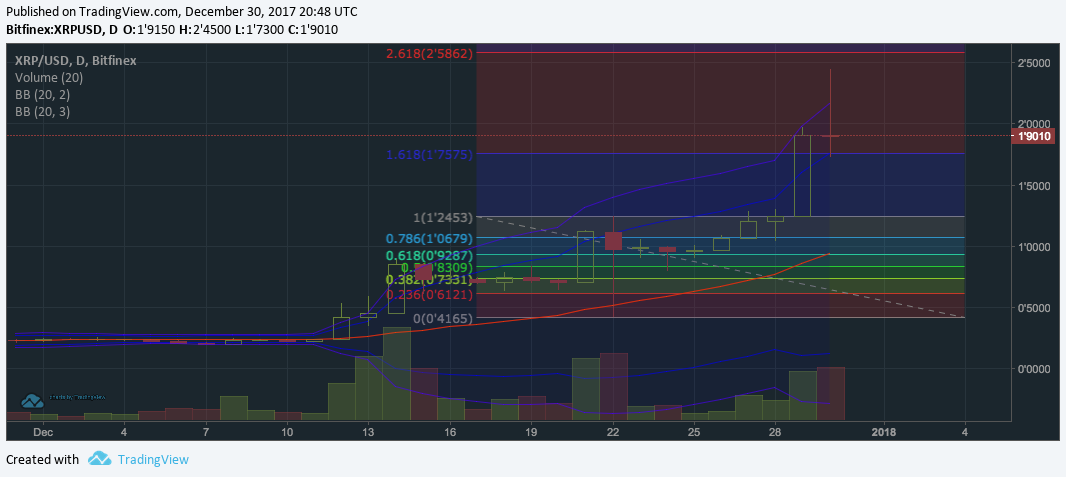
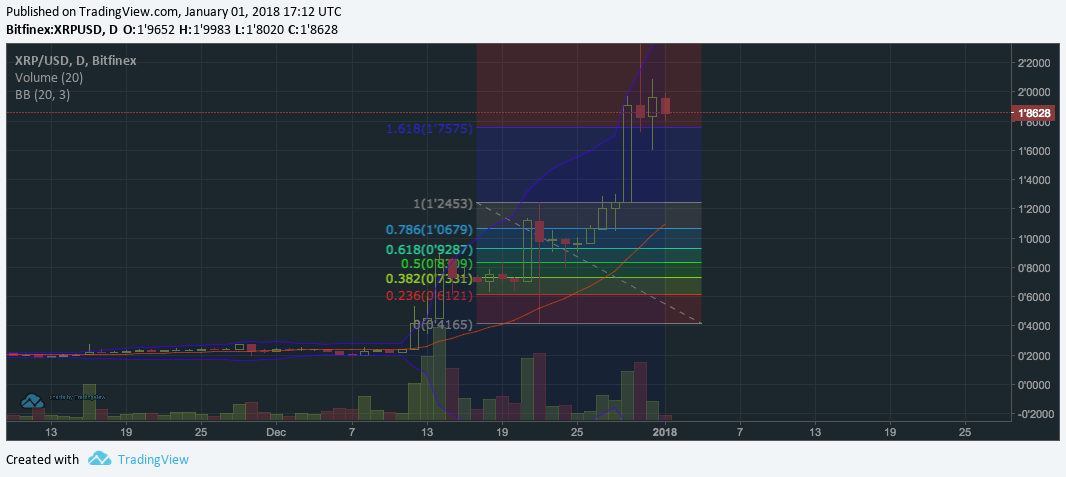
fibs

diff --git a/_includes/thismonth-airdrops.html b/_includes/thismonth-airdrops.html
@@ -25,6 +25,14 @@
   </tr>
 
   <tr>
+    <td>SEM</td>
+    <td>Before 25 Feb 2018, claims processed every Sun</td>
+    <td>Airdrop against BTC balances at block height 480000. 1 BTC = 20 SEM. You need to sign your Semux address with your Bitcoin wallet and submit the signature to https://goo.gl/forms/tXh3Gd8Z6LddBw6H2. You also need a SEM address, wallets are <a rel="nofollow" href="https://github.com/semuxproject/semux/releases">on Github</a>.</td>
+    <td><a rel="nofollow" target="_blank" href="https://www.semux.org/">semux.org</a></td>
+    <td><a rel="nofollow" target="_blank" href="https://bitcointalk.org/index.php?topic=2159012.0?utm_source=altcointradingnet">Bitcointalk</a></td>
+  </tr>
+
+  <tr>
     <td>Bitcore</td>
     <td>Nov 2 but claiming is still open</td>
     <td>It involves sharing your private key so do it securely.</td>

diff --git a/_fibs/daily.md b/_fibs/daily.md
@@ -1,7 +1,7 @@
 ---
 published: true
 date: 2017-12-27 10:36:00 +0100
-update: 2017-12-31 07:02:00 +0100
+update: 2018-01-02 03:02:00 +0100
 
 layout: fibs
 title: "Fib Levels for Crypto Markets"
@@ -17,16 +17,13 @@ name: "daily/"
 image: ["/strat/finexfibs.png"]
 
 dollars:
-- { market: "XRPUSD", chart: "/fibs/xrpusd.png", comment: "Beautiful top wick below 2.618, currently about 20% down over the last 24 hours. On shorter timeframes currently bouncing off 1.618 but on small volume." }
-- { market: "ETHUSD", chart: "/fibs/ethusd.png", comment: "The positive trend line defined by moving average (bband center) was broken on 1D - daily of 30 Dec closed below. ETH is still holding the level for now but there is some downward pressure (sell volumes)." }
-- { market: "IOTUSD", chart: "/fibs/iotusd.png", comment: "Iota is keeping in the slight downtrend (consolidation), not much going on. The ratio (IOTBTC) is up thanks to bitcoin's action." }
-- { market: "BTCUSD", chart: "/fibs/btcusd.png", comment: "Bitcoin sold off in a big way, now sitting on its last support area and looking very heavy." }
+
+- { market: "ETHUSD", chart: "/fibs/ethusd.png", comment: "The break of the MA (bbands center) was quickly overturned with a convincing double bottom bounce, currently ETHUSD has already broken up through the fib at $783." }
+- { market: "XRPUSD", chart: "/fibs/xrpusd.png", comment: "XRP is actually consolidating and not dropping like crazy: that's a good thing. Not a buy though, other than for a scalp." }
+- { market: "BTCUSD", chart: "/fibs/btcusd.png", comment: "Bitcoin fans are surely happy the coin is at 13.5 at the moment but it is looking as heavy as yesterday." }
 ratios:
-- { market: "ETHBTC", chart: "/fibs/ethbtc.png", comment: "The ETH ratio is climbing but still not breaking out convincingly." }
-
-
-#- { market: "IOTUSD", chart: "/fibs/iotusd.png", comment: "dolor" }
-
+- { market: "ETHBTC", chart: "/fibs/ethbtc.png", comment: "Currently attacking the marked peak. Let's see. If broken, next stop is at 0.07 BTC." }
+- { market: "EOSBTC", chart: "/fibs/eosbtc.png", comment: "EOS is one of the finex coins that is surging at the moment - against USD and BTC but not against ETH - and also one that is trusted for being potentially more than a fad. Pricewise I'd just like to point out the resistance in the BTC ratio where it's at right now is significant. Not a place to FOMO (even though someone has to if it's to blast through)." }
 ---
 
 
@@ -34,6 +31,6 @@ This is a new section on AltcoinTrading that will have only USD and BTC charts f
 
 > Relevant news for today
 
-* It's [from zerohedge so grain of salt and all that](https://www.zerohedge.com/news/2017-12-29/stunning-look-inside-world-south-koreas-bitcoin-zombies), but it's an interesting article about how the crypto madness looks in South Korea: Everybody wants to be a crypto investors, young folks are making tons of money, students have "clubs" where they trade together (and make decisions together as opposed to the western world that engages in fights between subreddits). It's not difficult to see why these new traders lead the market and how it looks like.
-* [You can now vote to have RaiBlocks listed on Binance next month](https://www.reddit.com/r/RaiBlocks/comments/7n4k0c/xrb_officially_on_the_ballet_for_the_binance_coin/). If you don't have an account on Binance yet go ahead and use our [shill link](https://www.binance.com/?ref=15980293).
-* Happy new year.
+* There's a [new subreddit dedicated to Bitcoin forks](https://www.reddit.com/r/BitcoinScamCoins/)
+* It's still [not too late to activate your BTC stash to claim UB (United Bitcoin)](https://forkit.info/united-bitcoin/) - the block height deadline was changed
+* Verge (XVG), a privacy coin that has been shilled by McAffee and mooning lately, allegedly [leaked IP addresses of transactions](http://csnews.io/2018/01/01/verge-xvg-privacy-coin-just-thousands-users-ip-addresses-leaked/). Also McAffee [allegedly blackmailed Verge](https://www.finder.com.au/verge-mcafee-blackmail). Isn't drama supposed to be reserved for bitcoin?

diff --git a/_posts/2017-12-30-new-exchanges.md b/_posts/2017-12-30-new-exchanges.md
@@ -21,10 +21,10 @@ layout: forestry
 german: false
 tickers: false
 
-title: "New kids on the block: Smaller cryptocurrency exchanges good for trading"
+title: "Update for 2018: Smaller cryptocurrency exchanges good for trading"
 description: ""
 
-permalink: "/new-exchanges"
+permalink: "/exchanges-2018"
 image:
 - "/features/newcrypto.jpg"
 
